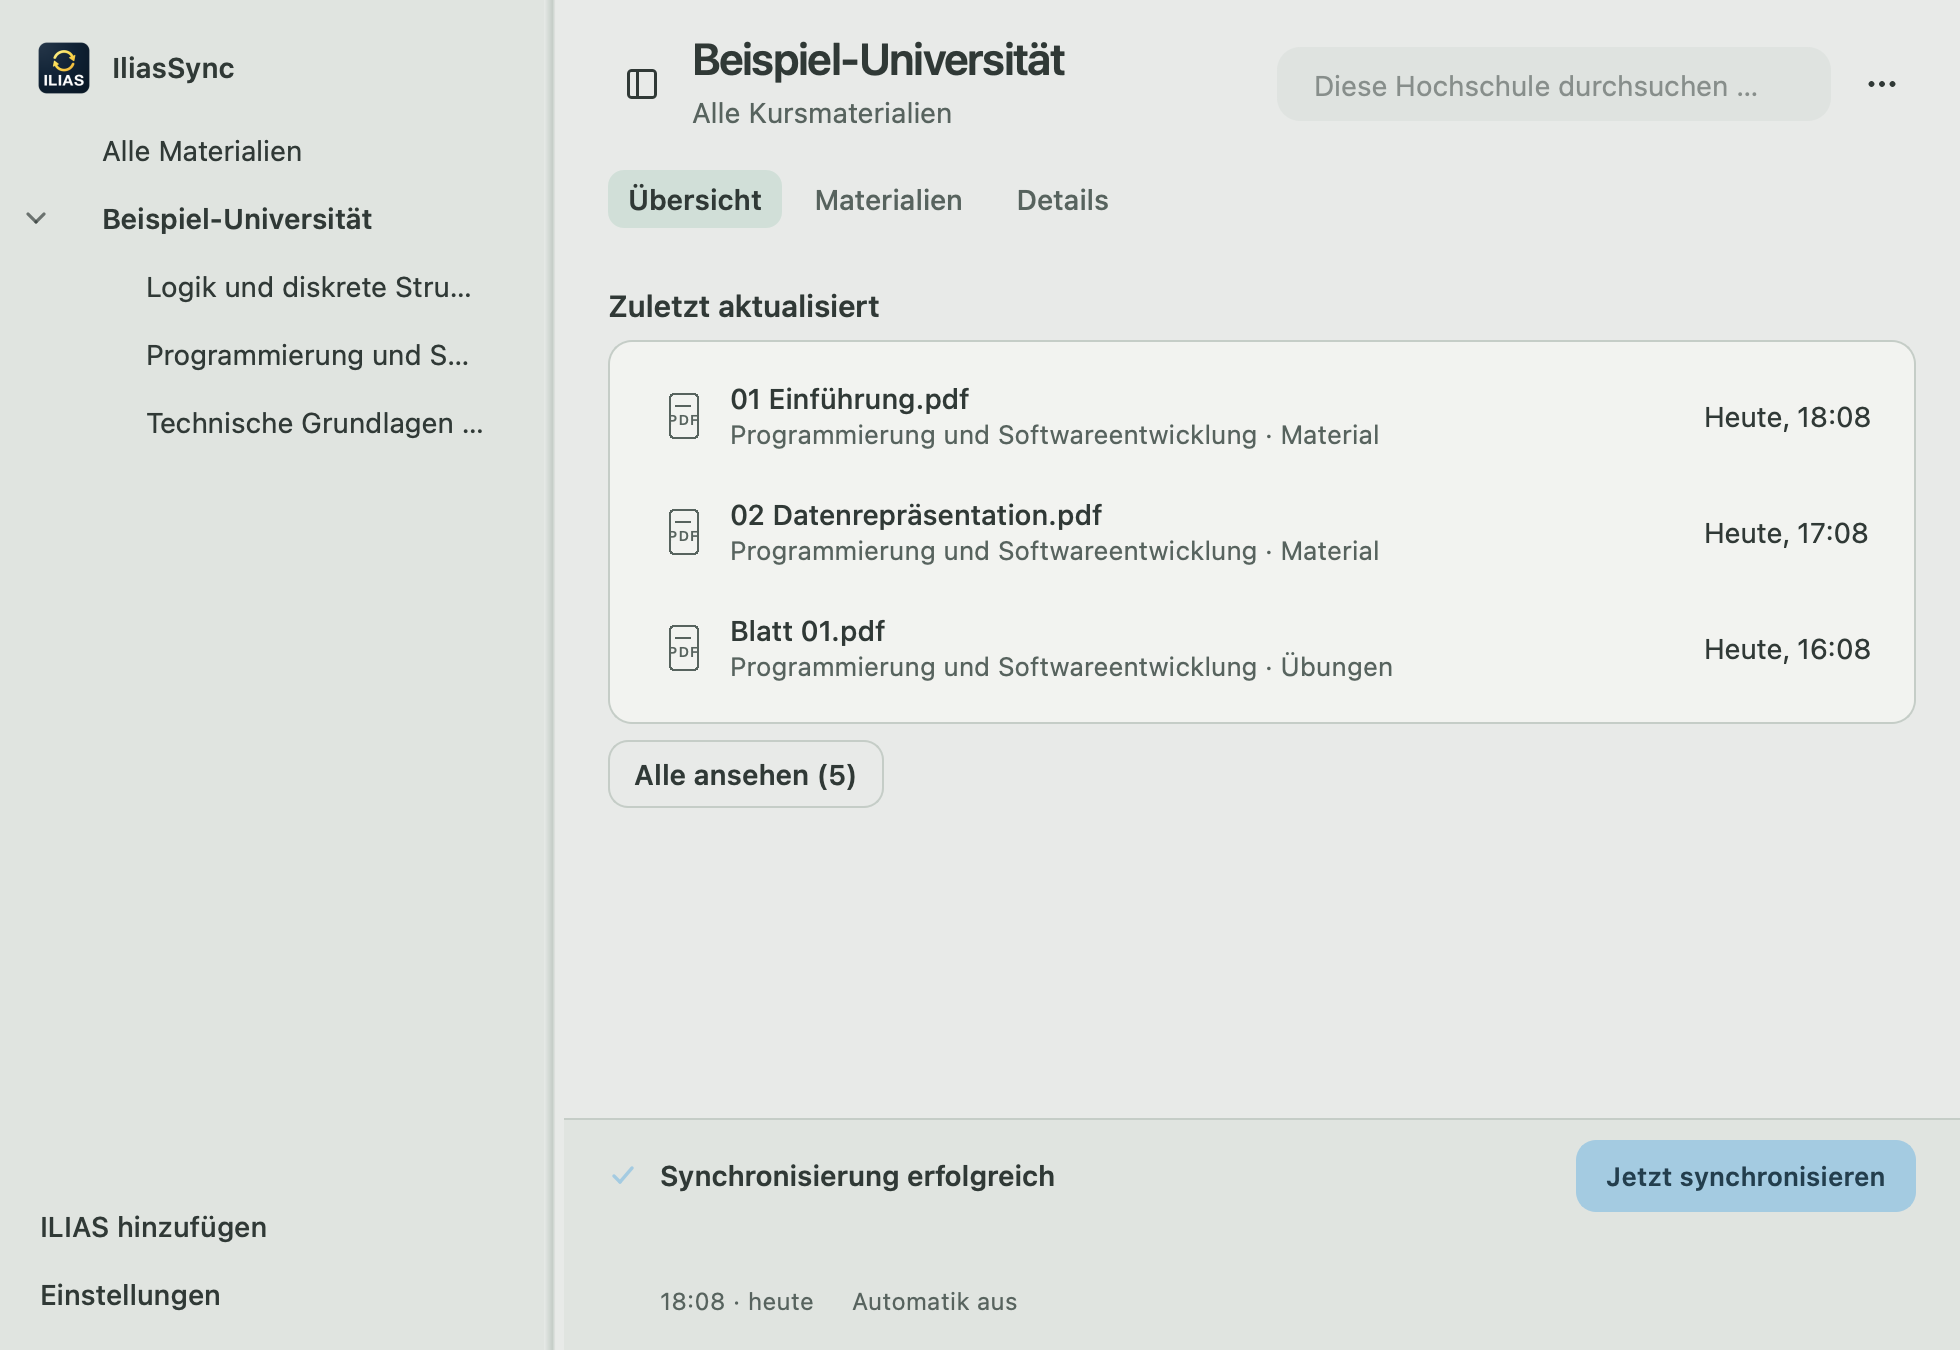
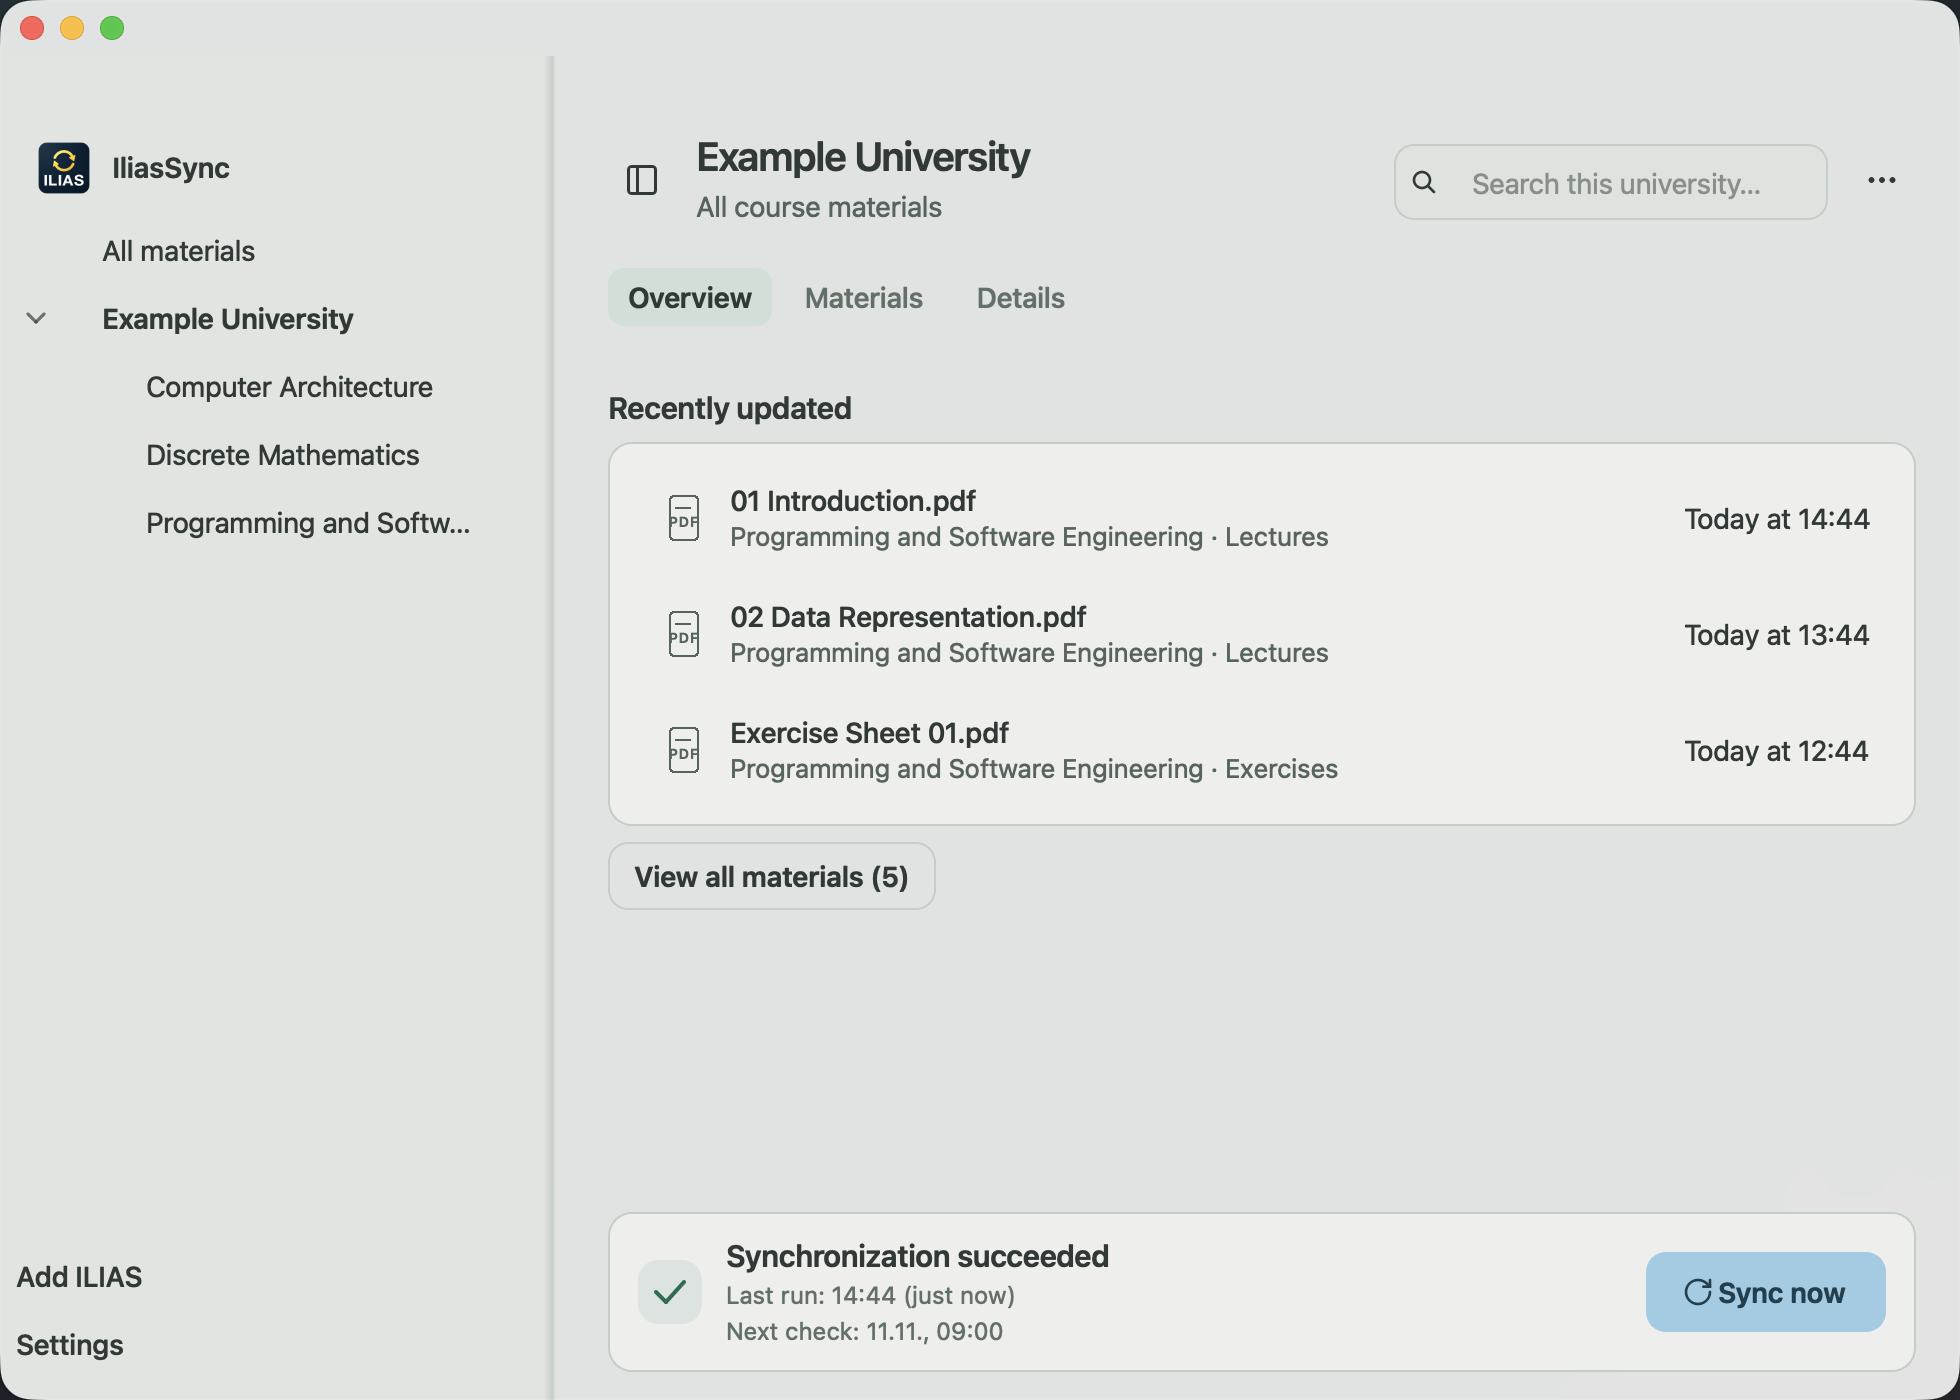
Refresh native sample screenshots and document local previews

diff --git a/scripts/capture_product.py b/scripts/capture_product.py
@@ -1,38 +1,63 @@
 """Reproducible Qt screenshots using synthetic courses only. No account access."""
 import os
+import argparse
+import subprocess
+import sys
 import tempfile
 import time
 from pathlib import Path
+from unittest.mock import patch
+from dataclasses import replace
 
 os.environ.setdefault("QT_QPA_PLATFORM", "offscreen")
 os.environ.setdefault("QT_SCALE_FACTOR", "2")
 
 
 def main():
-    from PySide6.QtWidgets import QApplication
+    parser = argparse.ArgumentParser(description=__doc__)
+    parser.add_argument('--native', action='store_true', help='Capture real macOS compositor output.')
+    parser.add_argument('--preview', action='store_true', help='Keep the isolated sample app open for review.')
+    parser.add_argument('--language', choices=('en', 'de'), default='en')
+    parser.add_argument('--output', type=Path, default=Path(__file__).resolve().parents[1] / 'docs/images')
+    args = parser.parse_args()
+    if args.preview and not args.native:
+        parser.error('--preview requires --native')
+    if args.native:
+        if sys.platform != 'darwin':
+            parser.error('--native requires macOS')
+        os.environ['QT_QPA_PLATFORM'] = 'cocoa'
+        os.environ.pop('QT_SCALE_FACTOR', None)
+    from PySide6.QtCore import QPoint, Qt
+    from PySide6.QtTest import QTest
+    from PySide6.QtWidgets import QApplication, QMessageBox, QWidget
     from PySide6.QtGui import QFontDatabase
     from ilias_sync.branding import app_icon
     from ilias_sync.gui import MainWindow, FolderMappingDialog, SourceDialog, HelpDialog, SettingsDialog
     from ilias_sync.storage import Settings, Source, data_dir, write_json, source_scope
     from ilias_sync.theme import Theme
-    output = Path(__file__).resolve().parents[1] / "docs/images"
+    output = args.output.resolve()
     output.mkdir(parents=True, exist_ok=True)
     with tempfile.TemporaryDirectory(prefix="ilias-product-") as temporary:
         os.environ["ILIAS_SYNC_DATA_DIR"] = str(Path(temporary) / "state")
         settings = Settings()
-        source = Source("Beispiel-Universität", "https://ilias.example.edu", "/Studium/WS26-27",
+        settings.value.update(language=args.language, appearance='dark', scheduled=True, schedule_mode='weekly',
+                              weekly_times={"0":["09:00","16:30"],"1":["13:00"],"2":["09:00","16:30"],
+                                            "3":["13:00"],"4":["10:00"],"5":[],"6":[]})
+        source = Source("Example University", "https://ilias.example.edu", str(Path(temporary) / 'Materials'),
                         username="beispiel", client_id="campus")
         settings.save_source(source)
         state = data_dir() / "sources" / source.id
-        courses = [{"id": "crs-1", "name": "Programmierung und Softwareentwicklung", "url": source.url + "/go/crs/1"},
-                   {"id": "crs-2", "name": "Technische Grundlagen der Informatik", "url": source.url + "/go/crs/2"},
-                   {"id": "crs-3", "name": "Logik und diskrete Strukturen", "url": source.url + "/go/crs/3"}]
+        names_by_language = (['Programming and Software Engineering', 'Computer Architecture', 'Discrete Mathematics']
+                             if args.language == 'en' else ['Programmierung und Softwareentwicklung',
+                             'Technische Grundlagen der Informatik', 'Logik und diskrete Strukturen'])
+        courses = [{"id": f"crs-{index}", "name": name, "url": source.url + f"/go/crs/{index}"}
+                   for index, name in enumerate(names_by_language, 1)]
         write_json(state / "courses.json", courses)
-        names = [("PSE/Skripte/01 Einführung.pdf", "crs-1/Material/01 Einführung.pdf", "crs-1", 3440000),
-                 ("PSE/Skripte/02 Datenrepräsentation.pdf", "crs-1/Material/02 Datenrepräsentation.pdf", "crs-1", 8520000),
-                 ("PSE/Übungen/Blatt 01.pdf", "crs-1/Übungen/Blatt 01.pdf", "crs-1", 285000),
-                 ("TGI/Skripte/01 Zahlensysteme.pdf", "crs-2/Material/01 Zahlensysteme.pdf", "crs-2", 2160000),
-                 ("LDS/Übungen/Blatt 01.pdf", "crs-3/Übungen/Blatt 01.pdf", "crs-3", 180000)]
+        names = [("Programming/Lectures/01 Introduction.pdf", "crs-1/Lectures/01 Introduction.pdf", "crs-1", 3440000),
+                 ("Programming/Lectures/02 Data Representation.pdf", "crs-1/Lectures/02 Data Representation.pdf", "crs-1", 8520000),
+                 ("Programming/Exercises/Exercise Sheet 01.pdf", "crs-1/Exercises/Exercise Sheet 01.pdf", "crs-1", 285000),
+                 ("Architecture/Lectures/01 Number Systems.pdf", "crs-2/Lectures/01 Number Systems.pdf", "crs-2", 2160000),
+                 ("Mathematics/Exercises/Exercise Sheet 01.pdf", "crs-3/Exercises/Exercise Sheet 01.pdf", "crs-3", 180000)]
         write_json(state / "manifest.json", {"schema": 1, "files": {
             f"file:{index}": {"path": path, "logical": logical, "course_id": course,
                               "target_stat": [size], "size": size, "changed_at": time.time() - index * 3600, "change": "added",
@@ -41,31 +66,70 @@ def main():
         write_json(state / "status.json", {"state": "Up to date", "scope": source_scope(source), "finished": time.time(), "result": {
             "files": 5, "counts": {"added": 5}, "material_counts": {"added": 5}, "skipped": {}, "warnings": 0, "errors": 0, "unavailable": 0}})
         app = QApplication([])
+        from ilias_sync.native_compat import protect_accessibility
+        protect_accessibility(app)
         app.setFont(QFontDatabase.systemFont(QFontDatabase.SystemFont.GeneralFont))
         app.setWindowIcon(app_icon())
-        app.theme = Theme(app, "light")
+        app.theme = Theme(app, "dark")
+        backdrop = None
+        if args.native and not args.preview:
+            # Keep private desktop contents out of public compositor captures.
+            backdrop = QWidget(None, Qt.WindowType.FramelessWindowHint)
+            backdrop.setStyleSheet('background: qlineargradient(x1:0,y1:0,x2:1,y2:1,'
+                                  'stop:0 #26373b, stop:0.5 #22272e, stop:1 #37303b);')
+            backdrop.setGeometry(app.primaryScreen().availableGeometry().adjusted(2, 2, -2, -2))
+            backdrop.show()
         window = MainWindow()
+        window.resize(980, 700)
+        available = app.primaryScreen().availableGeometry()
+        window.move(available.center() - window.rect().center())
         window.show()
+        if args.preview:
+            app.setApplicationName('IliasSync Preview')
+            def preview_sync(view, *_):
+                QMessageBox.information(view, 'IliasSync Preview',
+                    'Lokale Vorschau mit Beispieldaten. Es wird keine Synchronisierung gestartet.'
+                    if args.language == 'de' else 'Local preview with sample data. No synchronization is started.')
+            # Review the settings draft without touching the installed scheduler.
+            with patch('ilias_sync.gui.install'), patch('ilias_sync.gui.uninstall'), \
+                    patch('ilias_sync.gui.registration_matches', return_value=True), \
+                    patch.object(MainWindow, 'start', preview_sync):
+                window.raise_()
+                window.activateWindow()
+                print('Native sample preview opened. No installed app or user schedule is changed.', flush=True)
+                app.exec()
+            return
 
         def capture(widget, name):
             widget.show()
-            app.processEvents()
+            if args.native:
+                widget.move(app.primaryScreen().availableGeometry().center() - widget.rect().center())
+            widget.raise_()
+            widget.activateWindow()
+            QTest.qWait(180)
+            if args.native:
+                point = widget.mapToGlobal(QPoint())
+                region = f'{point.x()},{point.y()},{widget.width()},{widget.height()}'
+                subprocess.run(['/usr/sbin/screencapture', '-x', '-R' + region, str(output / name)], check=True)
+                return
             surface = widget.centralWidget() if isinstance(widget, MainWindow) else widget
             assert surface.grab().save(str(output / name))
 
+        capture(window, "app-dark.png")
+        app.theme.set_mode("light")
         capture(window, "app-light.png")
         app.theme.set_mode("dark")
-        capture(window, "app-dark.png")
         window.workspace_tabs.setCurrentIndex(1)
         capture(window, "materials.png")
         window.workspace_tabs.setCurrentIndex(0)
         settings.value.update(scheduled=True, schedule_mode="weekly", weekly_times={"0":["09:00","16:30"],"1":["13:00"],"2":["09:00","16:30"],"3":["13:00"],"4":["10:00"],"5":[],"6":[]})
-        schedule = SettingsDialog(settings)
+        schedule = SettingsDialog(settings, window)
         schedule.tabs.setCurrentIndex(1)
         capture(schedule, "schedule.png")
         schedule.reject()
         app.theme.set_mode("light")
-        mapping = FolderMappingDialog(source, settings)
+        mapping_source = replace(source, destination='/Study/Materials')
+        mapping = FolderMappingDialog(mapping_source, settings)
         mapping.tree.expandAll()
         capture(mapping, "folders.png")
         mapping.close()
@@ -76,6 +140,8 @@ def main():
         capture(preferences, "info.png")
         preferences.close()
         window.close()
+        if backdrop:
+            backdrop.close()
     print("Synthetic product screenshots written to", output)
 
 

diff --git a/docs/DESIGN-SYSTEM.md b/docs/DESIGN-SYSTEM.md
@@ -4,9 +4,9 @@ These are the rules the interface already follows. Change the product by extendi
 
 ## Surfaces
 
-Window surfaces use `FROST` (0.76); dark rails are lifted 12 steps and cards 18. Menus and choice lists use a separate 0.97 opacity so content behind them cannot compete with their labels. High contrast makes them opaque.
+On macOS one window surface uses `FROST` (0.76). Nested layout carriers, scrolling pages and material tables remain transparent so they cannot multiply that opacity. Other desktop backends retain solid surfaces. Dark rails are lifted 12 steps and cards 18. Menus and choice lists use a separate 0.97 opacity so content behind them cannot compete with their labels. High contrast makes them opaque.
 
-The desktop behind the window is a smooth blur (radius 52) with a tint that keeps bright backgrounds from punching through. The blur view sits behind Qt’s view. Do not reparent that view or replace the window content view. Do not fade the whole window with `setWindowOpacity`; that fades the type as well. High contrast turns the frost fully opaque.
+The desktop behind the window is a smooth blur (radius 52) with a restrained native tint (0.26 dark, 0.34 light) that keeps bright backgrounds from punching through. The blur view sits behind Qt’s view. Do not reparent that view or replace the window content view. Do not fade the whole window with `setWindowOpacity`; that fades the type as well. High contrast turns the frost fully opaque.
 
 Accent buttons, the commit button and input borders stay solid so they remain readable on the veil.
 
@@ -30,7 +30,7 @@ Controls use a 10px radius. Rows, menus, popups and cards use 12px. Icon buttons
 
 Hover help is reserved for icon-only controls, important action consequences and full names/context that are visibly clipped. Do not repeat readable status headings, search placeholders, field contents or navigation labels. Keep exact sync times and next-run facts available in concise help and accessibility text. Useful hints use a short bold heading, at most one brief explanation, a narrow readable layout and a quiet rounded surface. Explanations and recovery remain available through the normal interface; hover is never required to operate the app.
 
-One wash for rows, menus and ghost buttons: white at alpha 78 on dark, black at alpha 28 on light. It fades in over 90ms and out over 110ms, and only while the pointer is over the control. In the sidebar that area is the name itself; the gutter to its left, including the disclosure, does not light up. A click does not replay it. Opening a menu clears the wash and restores it afterward only if the pointer is still on the control. Buttons do not get a blue focus ring. Text fields and combos still show an accent focus border.
+One wash for rows, menus and ghost buttons: white at alpha 78 on dark, black at alpha 28 on light. Button washes ease in over 180ms and out over 220ms; reversing direction starts at the current brightness. Colored actions use a subtler wash and keep their hue. Button labels and icons are painted above the wash, so they stay readable. In the sidebar that area is the name itself; the gutter to its left, including the disclosure, does not light up. A click does not replay it. Opening a menu clears the wash and restores it afterward only if the pointer is still on the control. Buttons do not get a blue focus ring. Text fields and combos still show an accent focus border.
 
 Help topics keep hover separate from selection, with the selected fill taking precedence. Pointer changes, leaving, scrolling and focus changes recompose the translucent dialog background so prior text and chips do not accumulate. Keyboard selection remains visible and continues to update the help article; the article viewport stays transparent.
 

diff --git a/docs/DEVELOPMENT.md b/docs/DEVELOPMENT.md
@@ -42,6 +42,17 @@ und [Prüfgrenzen](VERIFICATION.md).
 
 ## Release erstellen
 
+Die isolierte macOS-Vorschau öffnet Beispieldaten und verändert weder die installierte
+App noch deren Zeitplan. Synchronisierung ist darin durch einen Vorschauhinweis ersetzt:
+
+```sh
+.venv/bin/python scripts/capture_product.py --native --preview --language de
+```
+
+Aktuelle englische Produktbilder ohne private Desktop-Inhalte entstehen mit
+`.venv/bin/python scripts/capture_product.py --native`. Die native Aufnahme prüft
+den echten macOS-Compositor; die normale Aufnahme ohne `--native` rendert Qt offscreen.
+
 Die vorbereitete Updater-Integration benötigt einen bewusst eingerichteten
 öffentlichen Prüfschlüssel unter `updates/public-key.txt`. Der private Schlüssel
 gehört ausschließlich in den freigegebenen Signierprozess, niemals in Quellcode,

diff --git a/README.md b/README.md
@@ -45,6 +45,8 @@ No separate IliasSync account, app telemetry or additional cloud service.
 
 Requires macOS 13+, Windows 10/11 x64, or Linux with glibc 2.35+ and a graphical session. Linux password storage requires Secret Service or KWallet; scheduled checks require a systemd user session. Native Windows/Linux ARM packages and mobile apps are not included in this release.
 
+**Already using IliasSync?** Enable automatic update checks under **Settings → Updates**, or choose **Check for app updates** from the app menu (macOS) or Help (Windows/Linux). Your course materials and saved schedule stay in place. [How app updates work →](docs/UPDATES.md)
+
 <details>
 <summary><strong>Package verification, portable Windows app and updates</strong></summary>
 
